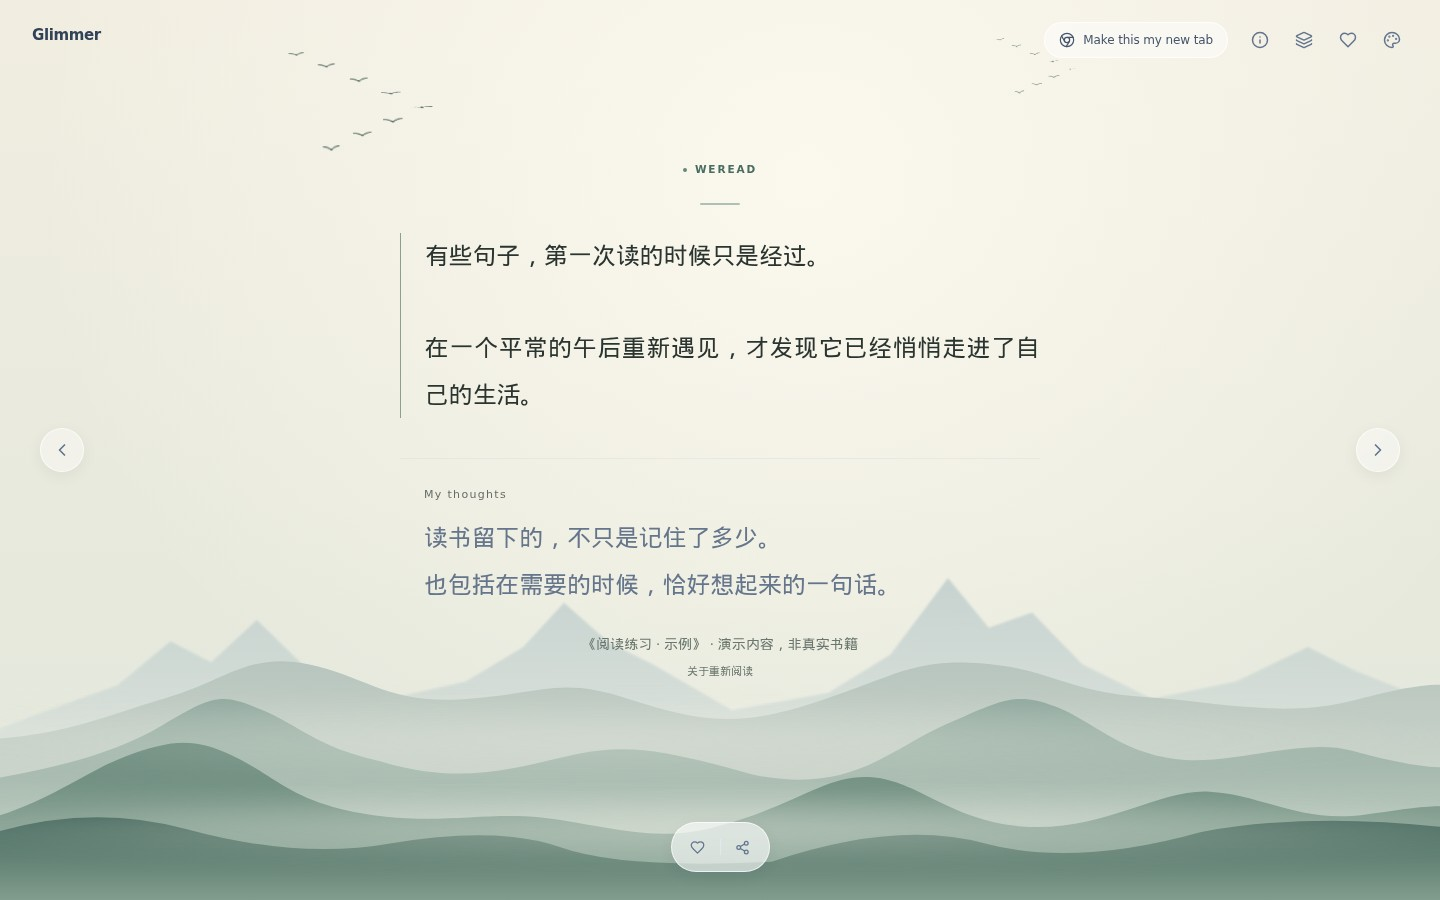
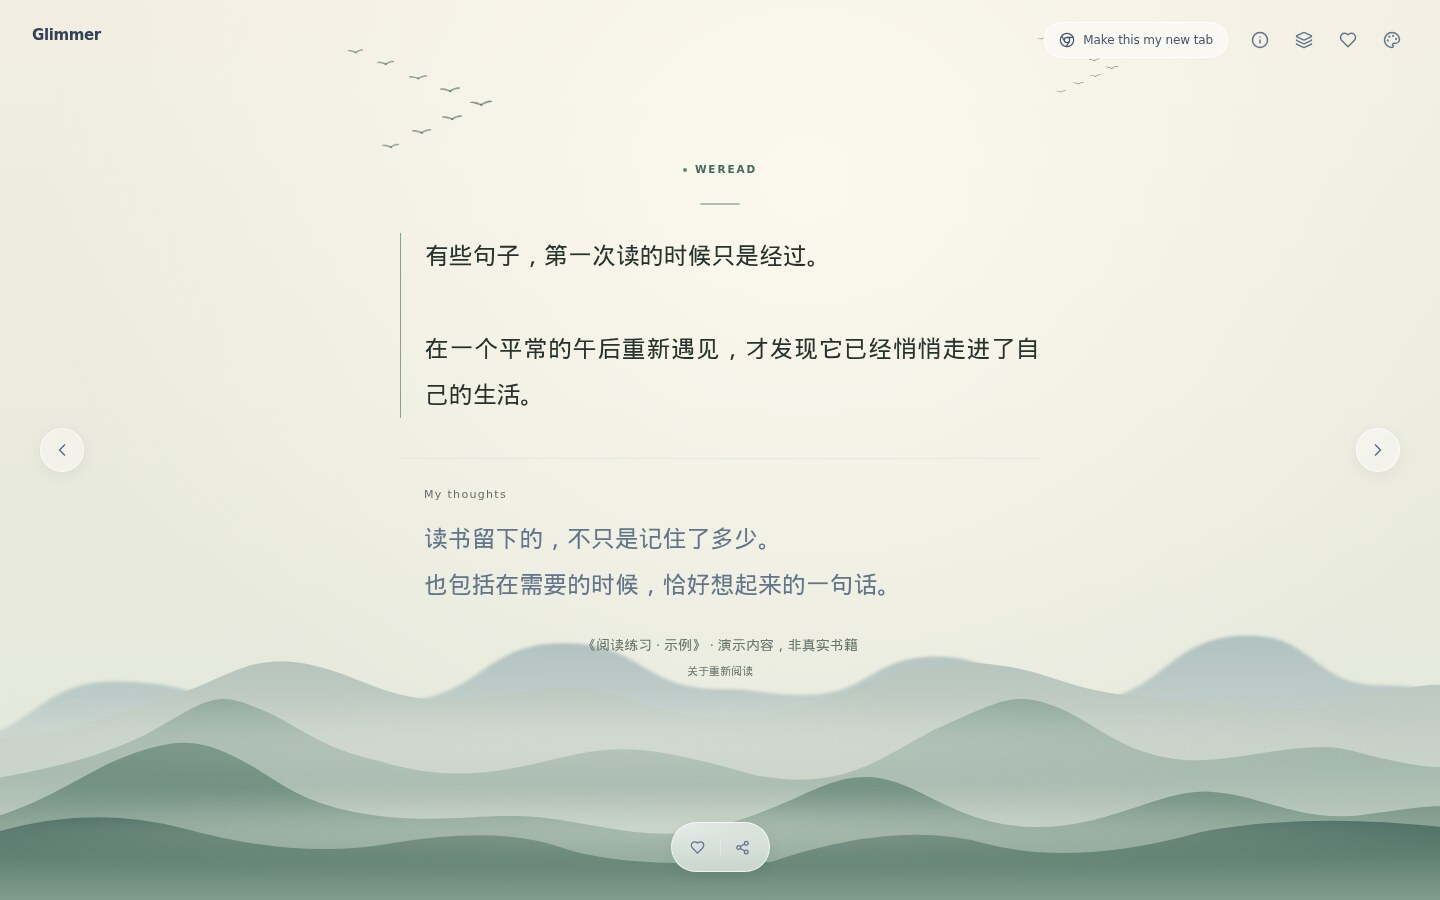
Mountains: replace sharp far peaks with soft rounded ridgeline

diff --git a/frontend/src/components/zen/MountainsTheme.tsx b/frontend/src/components/zen/MountainsTheme.tsx
@@ -1,9 +1,9 @@
 import { useId, type CSSProperties } from 'react'
 
-// Far peaks: a pale, angular range that gives the scene its distance. Haze
-// softens the points, so they read as remote rock and not as a drawn zigzag.
+// Far ridgeline: soft, rounded swells with no sharp points. Pale and low in
+// contrast, it reads as distant hills in haze and stays clear of the text.
 const PEAKS =
-  'M-40 300L40 262L98 236L142 190L176 212L214 168L262 226L318 252L388 232L436 196L470 150L508 192L544 214L610 262L690 244L742 204L790 124L824 176L860 160L902 214L960 250L1030 232L1090 196L1128 220L1240 276V460H-40Z'
+  'M-40 292C28 292 28 232 95 232C172 232 172 262 250 262C290 262 290 252 330 252C400 252 400 192 470 192C535 192 535 240 600 240C635 240 635 246 670 246C725 246 725 206 780 206C840 206 840 252 900 252C970 252 970 184 1040 184C1095 184 1095 236 1150 236C1195 236 1195 246 1240 246V460H-40Z'
 
 // Broad wooded shoulders, not rocky sawtooth peaks. Shared with the thumbnail.
 const RIDGES = [
@@ -20,7 +20,7 @@ function MountainLandscape() {
   return <svg viewBox="0 0 1200 460" preserveAspectRatio="none" className="mountain-landscape">
     <defs>
       <linearGradient id={`${id}-peaks`} x2="0" y2="1">
-        <stop stopColor="#bccbcb" /><stop offset=".62" stopColor="#dde4dd" /><stop offset="1" stopColor="#e9ebdf" />
+        <stop stopColor="#a9bcbc" /><stop offset=".62" stopColor="#d3ddd6" /><stop offset="1" stopColor="#e9ebdf" />
       </linearGradient>
       {RIDGE_COLORS.map(([top, bottom], i) => (
         <linearGradient key={top} id={`${id}-ridge-${i}`} x2="0" y2="1">

diff --git a/frontend/src/components/zen/theme-scenes.css b/frontend/src/components/zen/theme-scenes.css
@@ -21,7 +21,7 @@
 .mountain-mist { position: absolute; width: 125%; left: -12%; background: radial-gradient(ellipse, #f3f3e8b0, #edf0e45c 40%, transparent 72%); filter: blur(12px); }
 .mountain-mist-far { height: 12vh; bottom: 12vh; animation: mountain-mist 28s ease-in-out infinite alternate; }
 .mountain-mist-near { height: 8vh; bottom: 4vh; opacity: .55; animation: mountain-mist 22s -11s ease-in-out infinite alternate-reverse; }
-.mountain-peaks { filter: blur(1.1px); opacity: .78; }
+.mountain-peaks { filter: blur(1.8px); opacity: .88; }
 .mountain-flock { position: absolute; left: 0; width: 120px; height: 64px; color: #5a7368; }
 .mountain-flock svg { position: absolute; overflow: visible; }
 .mountain-flock-main { top: 11%; opacity: .74; animation: mountain-flight 84s -30s linear infinite; }
